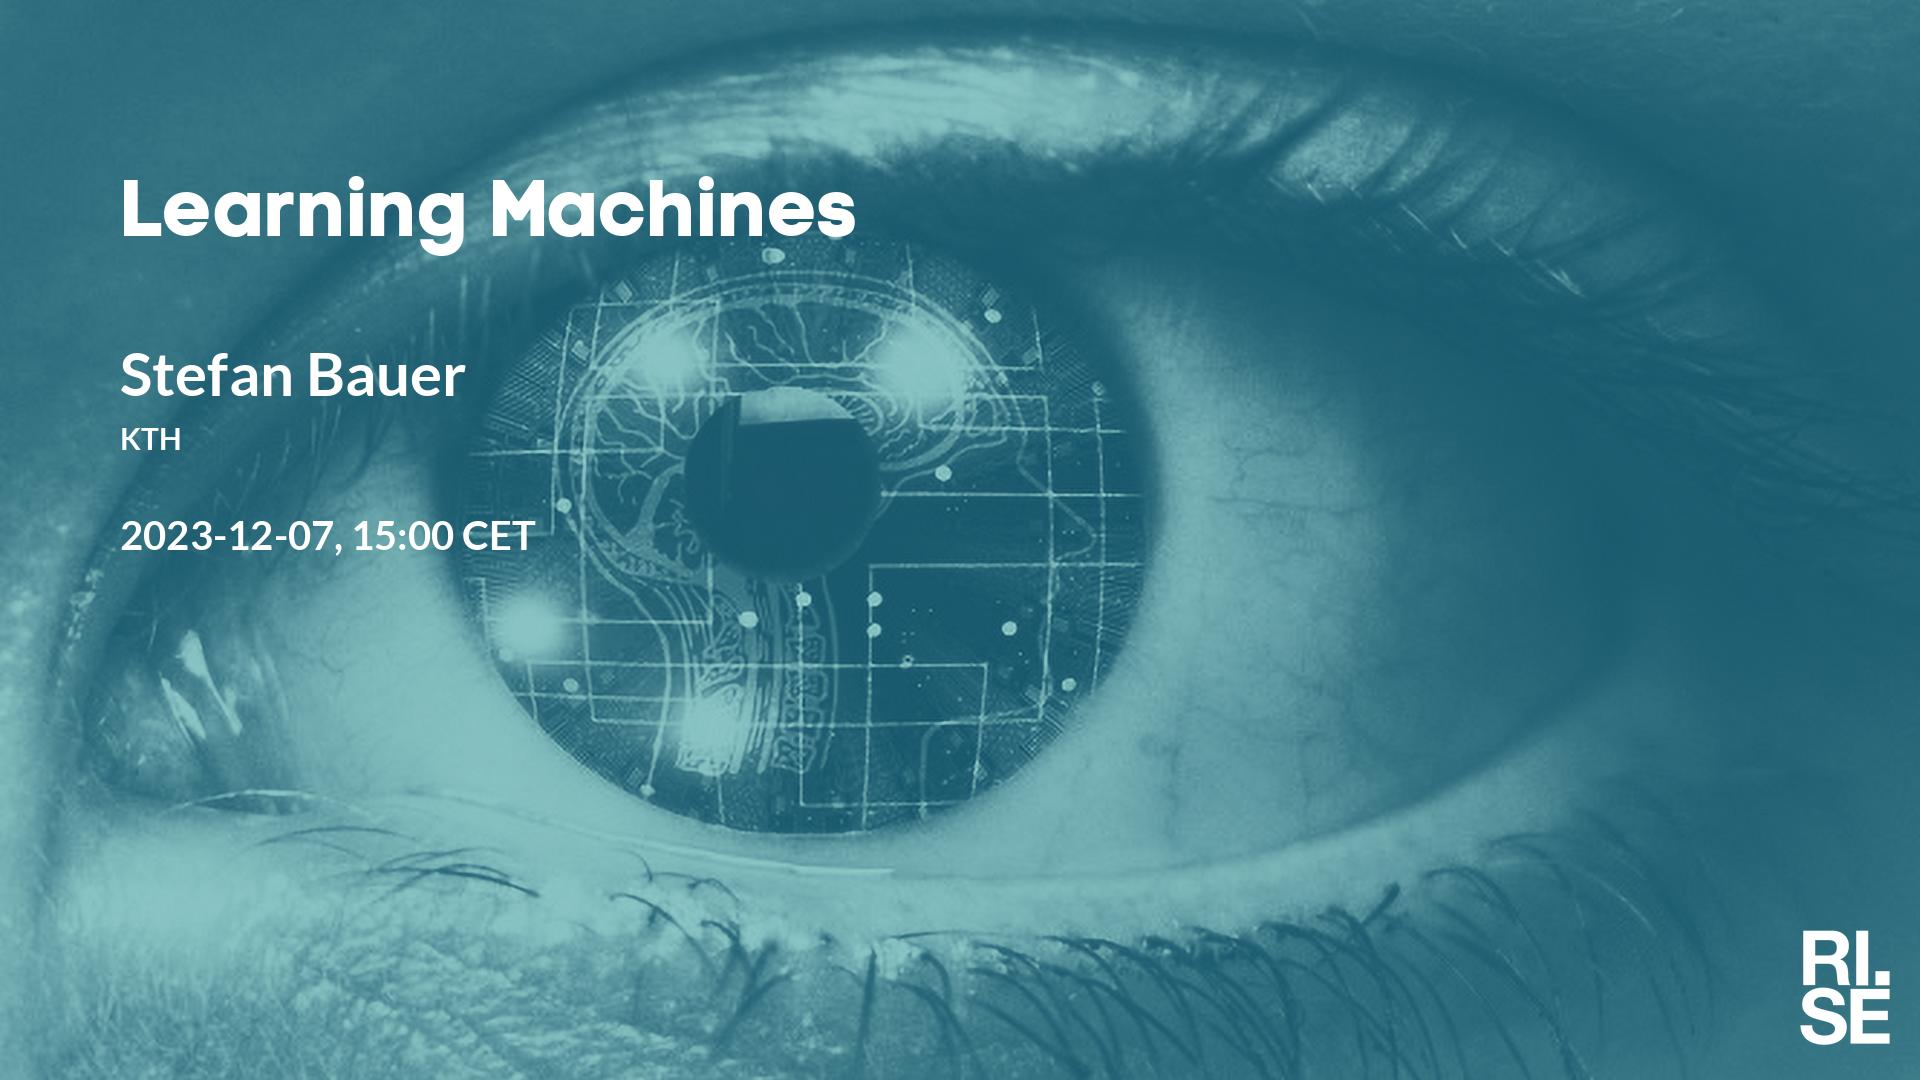
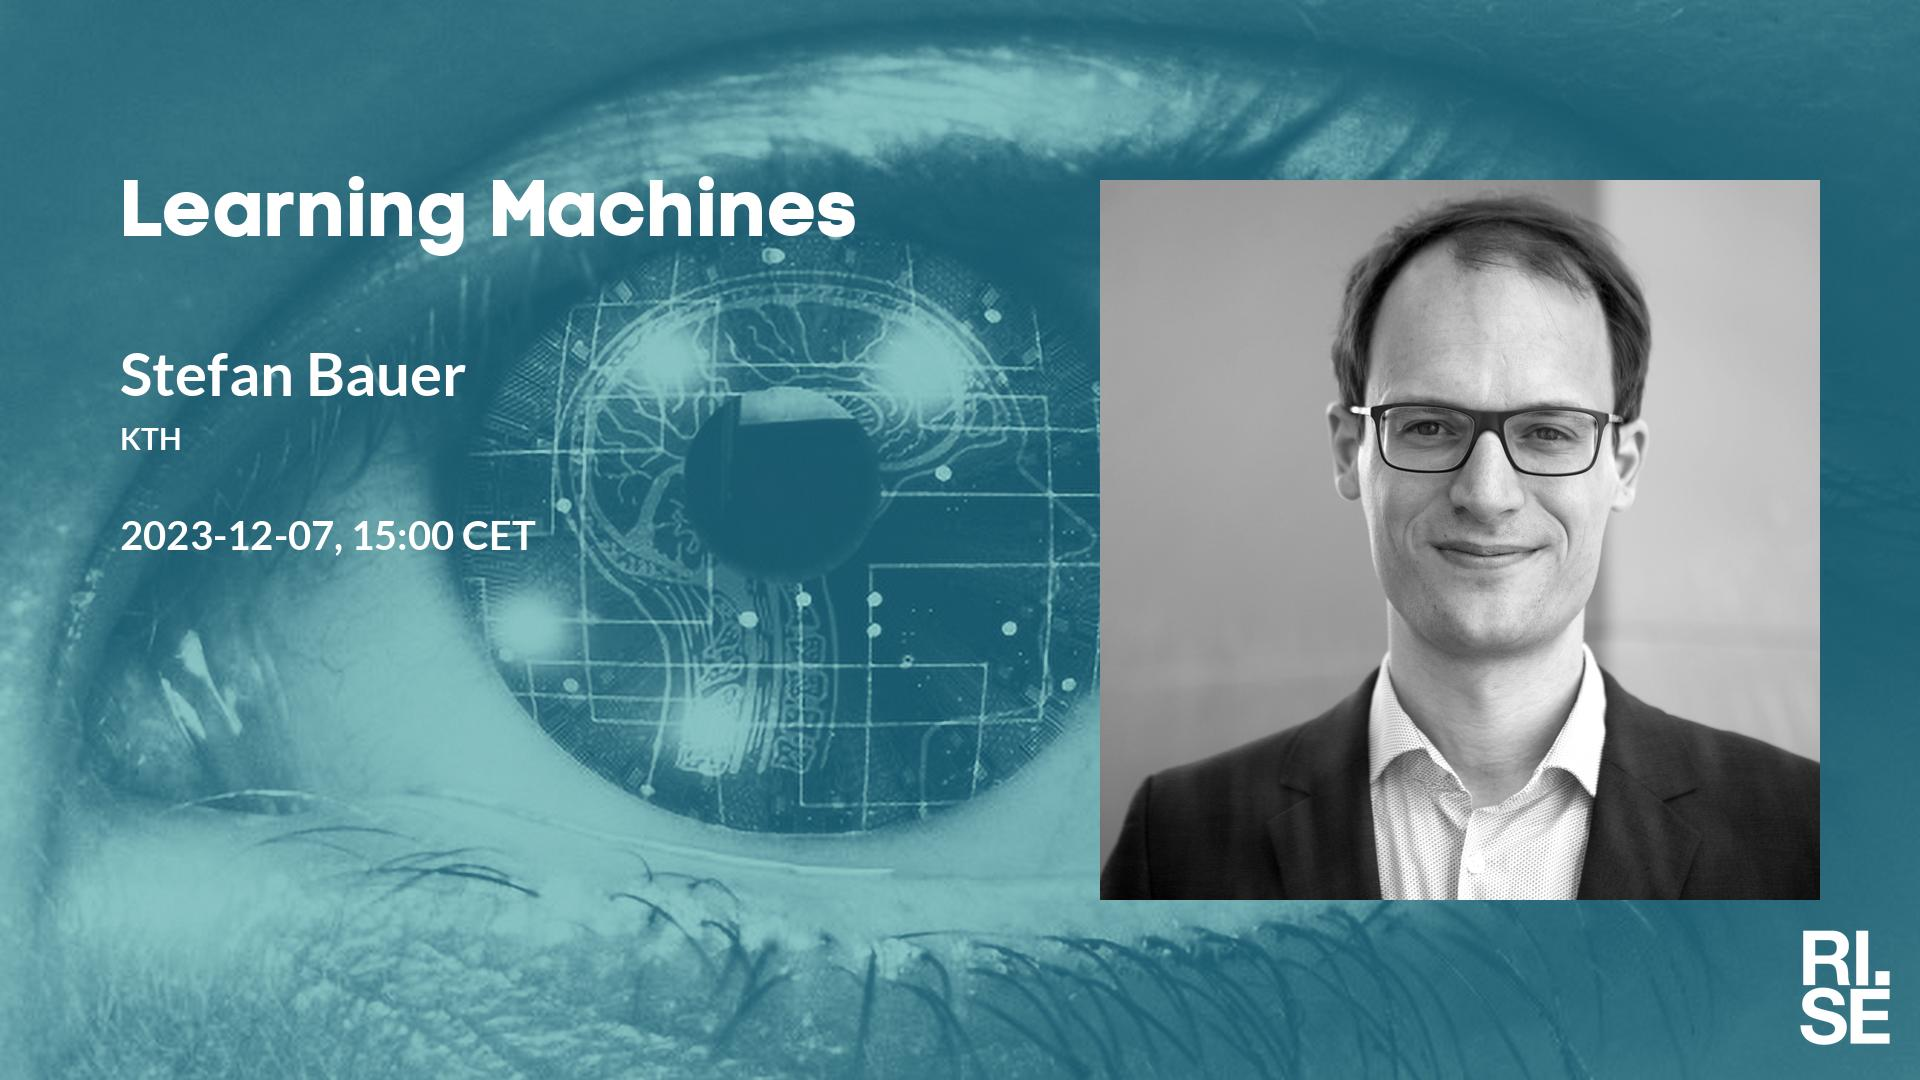
Updated plan on web site.

Changed region(s): [[0.5625, 0.1528, 0.9688, 0.8556]]

diff --git a/lm/index.md b/lm/index.md
@@ -17,7 +17,7 @@ table {border-collapse: collapse;}
 |  2023-11-16  |  [Jonas Hellgren, RISE](2023-11-16.md)  |  [photo](photo-jonas-hellgren.jpg)  |  [social media ](social-media-jonas-hellgren.jpg)  |  [meeting backdrop ](meeting-backdrop-jonas-hellgren.jpg)  |  [youtube thumbnail ](youtube-thumbnail-jonas-hellgren.jpg)  |  STA~~B~~P  |
 | <span style="color:red"> 2023-11-23 </span> | <span style="color:red"> Thanksgiving </span> | <span style="color:red">  </span> | <span style="color:red">  </span> | <span style="color:red">  </span> | <span style="color:red">  </span> | <span style="color:red"> CANCELLED </span> |
 |  2023-11-30  |  [Ben Weinstein, University of Florida](2023-11-30.md)  |  [photo](photo-ben-weinstein.jpg)  |  [social media ](social-media-ben-weinstein.jpg)  |  [meeting backdrop ](meeting-backdrop-ben-weinstein.jpg)  |  [youtube thumbnail ](youtube-thumbnail-ben-weinstein.jpg)  |  STABP  |
-|  2023-12-07  |  [Stefan Bauer, KTH](2023-12-07.md)  |    |  [social media ](social-media-stefan-bauer.jpg)  |  [meeting backdrop ](meeting-backdrop-stefan-bauer.jpg)  |  [youtube thumbnail ](youtube-thumbnail-stefan-bauer.jpg)  |  S~~TABP~~  |
+|  2023-12-07  |  [Stefan Bauer, KTH](2023-12-07.md)  |  [photo](photo-stefan-bauer.jpg)  |  [social media ](social-media-stefan-bauer.jpg)  |  [meeting backdrop ](meeting-backdrop-stefan-bauer.jpg)  |  [youtube thumbnail ](youtube-thumbnail-stefan-bauer.jpg)  |  S~~TAB~~P  |
 |  2023-12-14  |  [Fredrik Gustavsson, Karolinska Institutet](2023-12-14.md)  |    |  [social media ](social-media-fredrik-gustavsson.jpg)  |  [meeting backdrop ](meeting-backdrop-fredrik-gustavsson.jpg)  |  [youtube thumbnail ](youtube-thumbnail-fredrik-gustavsson.jpg)  |  S~~TABP~~  |
 | <span style="color:red"> 2023-12-21 </span> | <span style="color:red"> Christmas </span> | <span style="color:red">  </span> | <span style="color:red">  </span> | <span style="color:red">  </span> | <span style="color:red">  </span> | <span style="color:red"> CANCELLED </span> |
 | <span style="color:red"> 2023-12-28 </span> | <span style="color:red"> Christmas-break </span> | <span style="color:red">  </span> | <span style="color:red">  </span> | <span style="color:red">  </span> | <span style="color:red">  </span> | <span style="color:red"> CANCELLED </span> |
